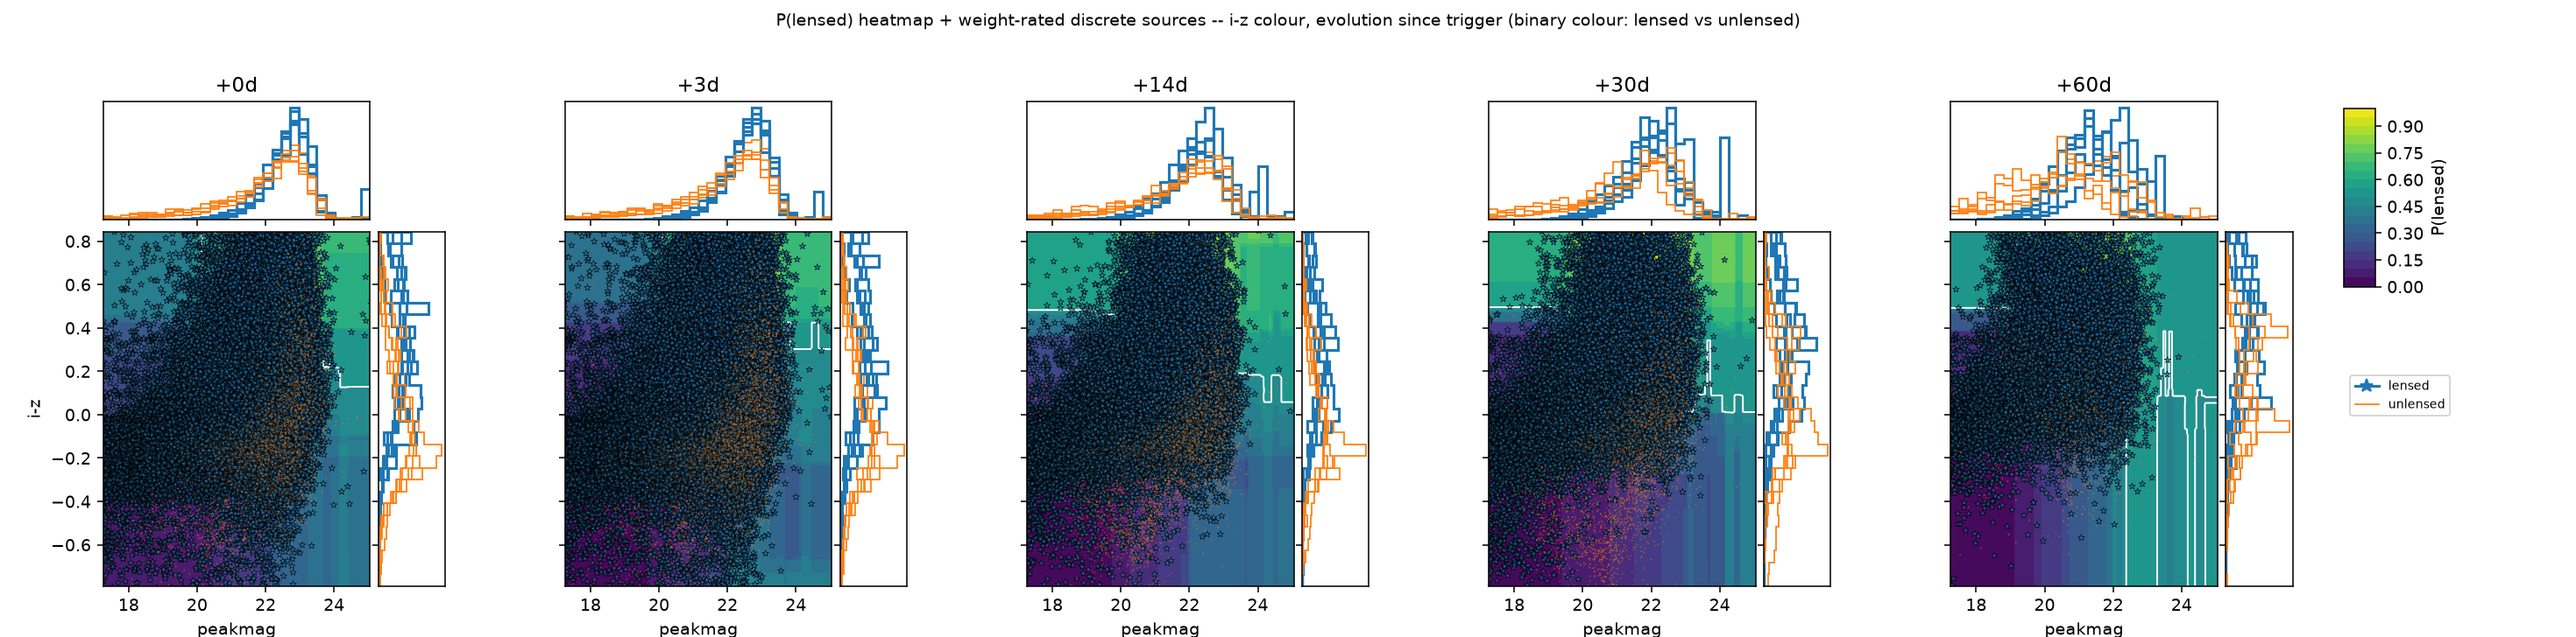
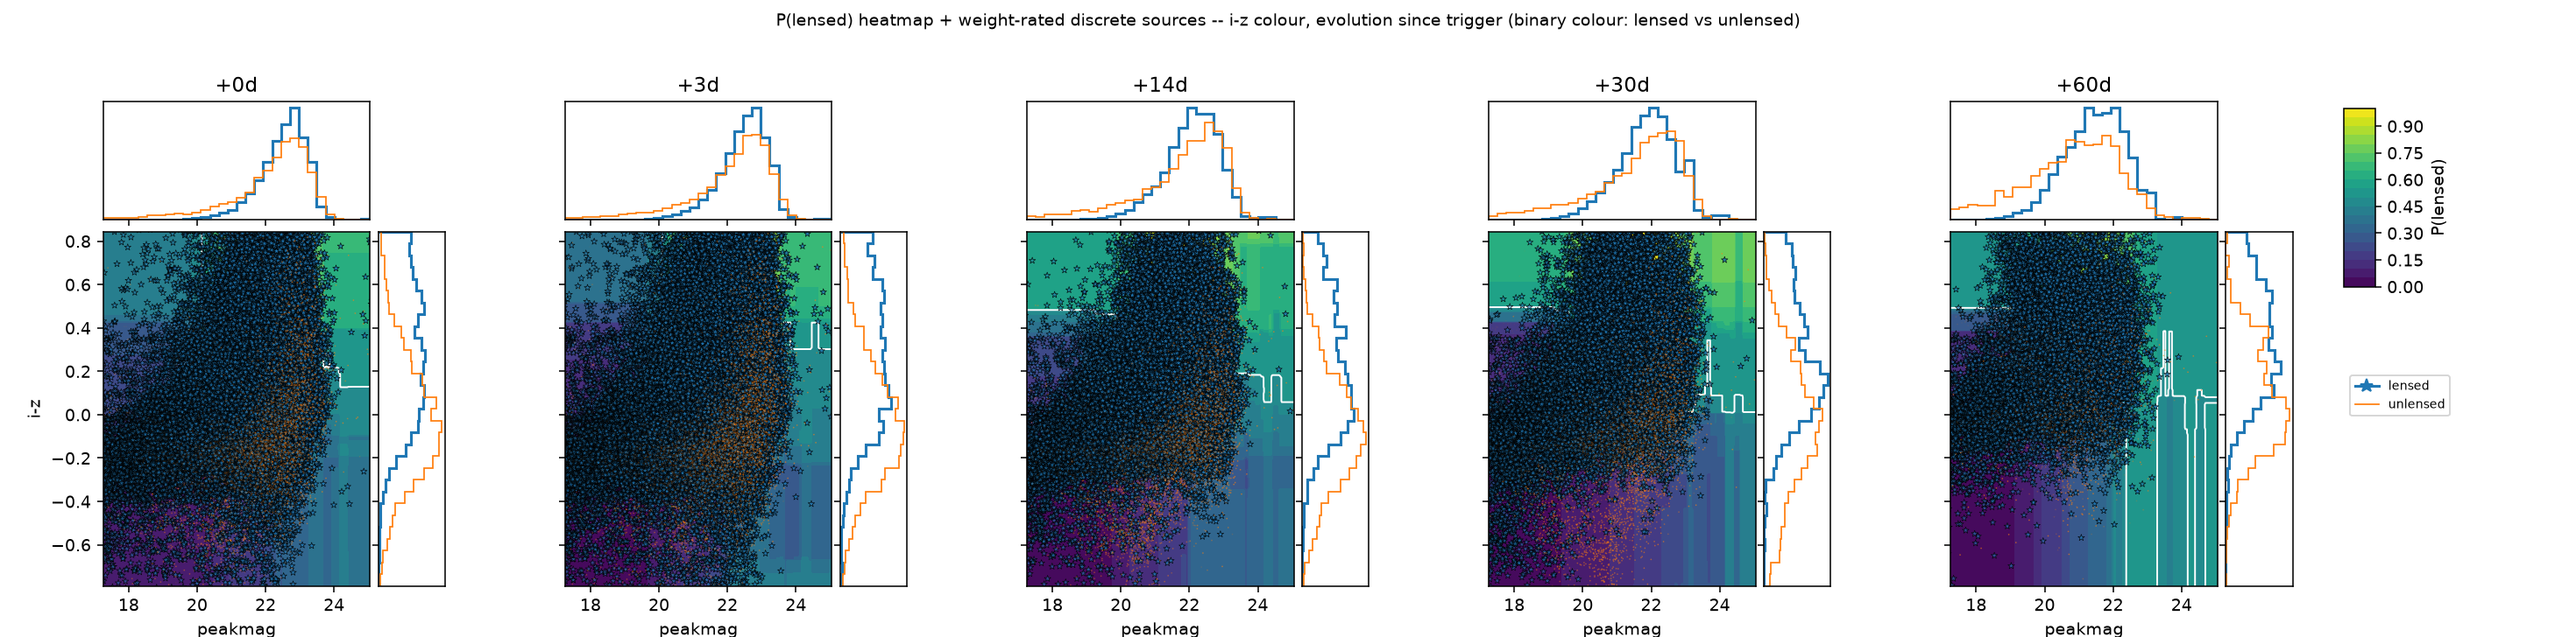
docs: clarify pooled-resample histogram semantics + regenerate binary figures
_draw_resampled_sources' binary-mode pooled histogram line gives every
class in a group equal (n_resample-point) representation -- weighting
is only applied within each class's own resample, never between
classes -- unlike _draw_weighted_sources' pooled histogram, which is
genuinely rate-weighted across classes. Code review flagged this as
worth documenting now that pooling makes the two binary figures look
like they answer the same question when they don't.

Also regenerates the 15 _binary-suffixed figures at full resolution
(n=200) against real production data (job 58563115) with the pooled-
histogram fix from the prior commit -- confirmed via git status that
only these 15 files changed, everything else byte-identical.

diff --git a/scripts/plot_evolving_boundaries.py b/scripts/plot_evolving_boundaries.py
@@ -353,6 +353,17 @@ def _draw_resampled_sources(ax_main, ax_top, ax_right, pop, pair_key, day,
     below the background classes', so pooling globally would make it vanish
     from the plot entirely instead of showing where its (rare but real)
     weighted mass sits.
+
+    In binary_colour mode the marginal histograms ARE pooled, one line per
+    group (see _draw_weighted_sources) -- but each class still contributes
+    a fixed n_resample points regardless of its true relative rate (only
+    the within-class resample probabilities use the real weights), so this
+    pooled line is an equal-representation mixture across the classes in
+    its group, NOT rate-weighted between them the way
+    _draw_weighted_sources' pooled histogram is. The two binary figures
+    answer different questions: this one shows the shape each class
+    contributes in equal measure, that one shows the true rate-weighted
+    mix.
     """
     suffix = _step_suffix(day)
     colour_key, magnitude_key = f'{pair_key}{suffix}', f'peakmag{suffix}'
